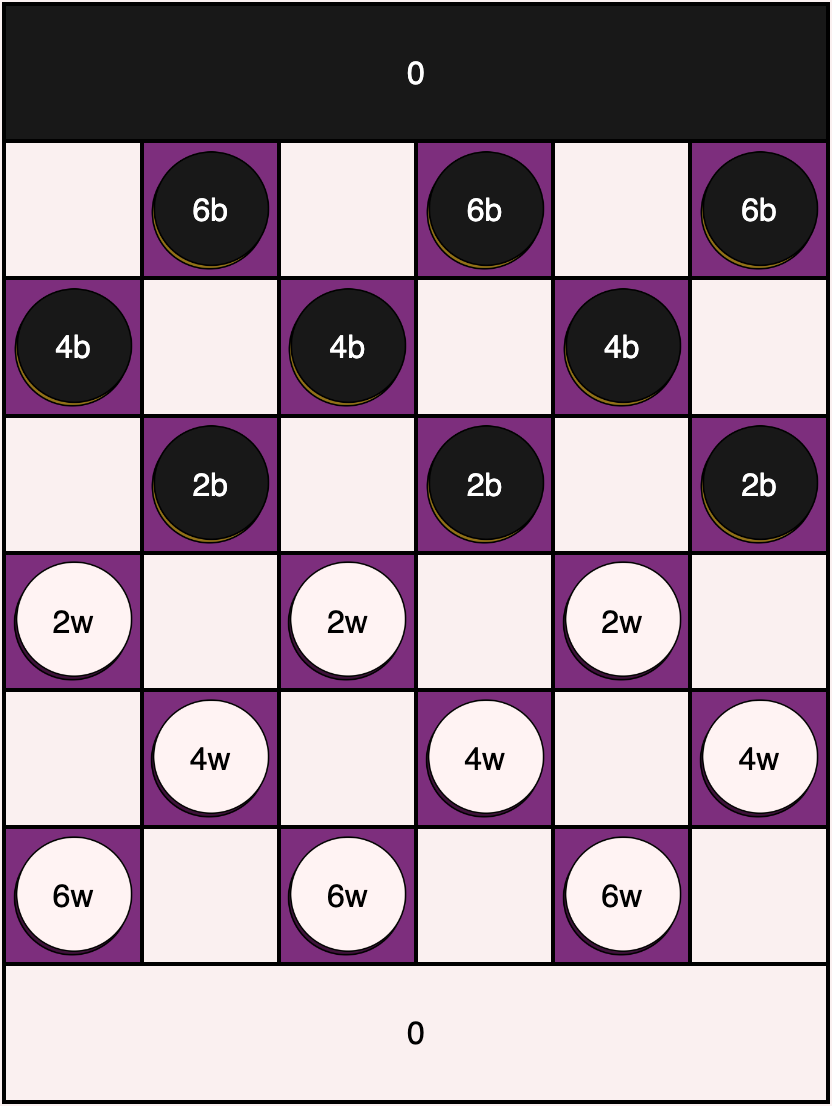
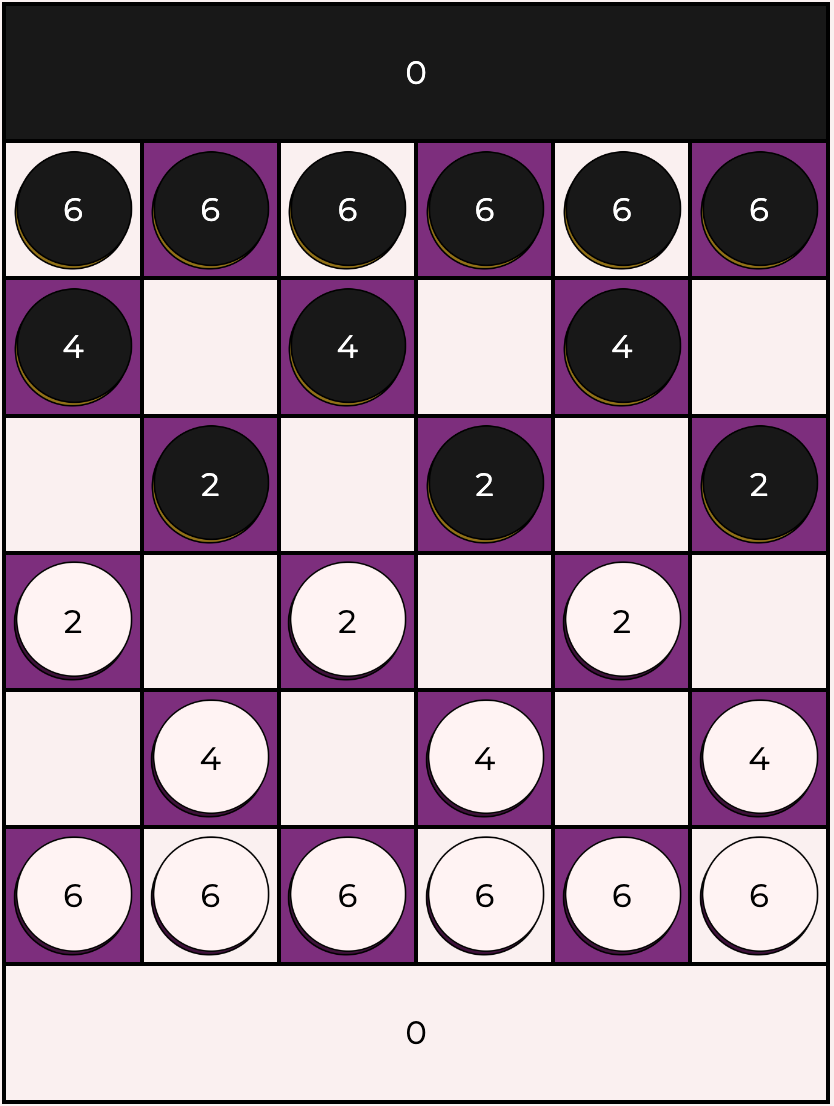
updated instructions - v2

diff --git a/frontend/src/Instructions.tsx b/frontend/src/Instructions.tsx
@@ -14,15 +14,14 @@ const Instructions = () => {
             feature requests, bugs, or general comments.</p>
         <h5>Overview</h5>
         <div className="image-formatter">
-        <p>Triarii is played on a 6x6 board, with two endzones. Each player has 36 pieces, initially arranged 
+        <p>Triarii is played on a 6x6 board, with two endzones. Each player has 54 pieces, initially arranged 
             in stacks of 6, 4, and 2, as shown on the right.
         </p>
         <img src={startingposition}/>
         </div>
         <h5>Ending the game</h5>
         <p>A player wins if they get 6 or more pieces in their opponent's endzone. A threefold 
-            repetition is a draw. There is one other special <a href="#fof">"Four or Fewer" condition</a> that 
-            can end the game, described below.
+            repetition is a draw.
         </p>
         <h5>Moves</h5>
         <p>On a player's turn, they can move a stack in one of two ways:</p>
@@ -35,23 +34,22 @@ const Instructions = () => {
         including the starting square.</li></ul></li></ol>
         <p>Once pieces are placed in the endzone, they can never be moved again. (It also follows that 
             pieces can only be placed in the endzone as the final move in an unstacking.)</p>
+        
         <h5>Pinning</h5>
-        <p>Pinning rules:</p>
-        <ul><li>A player can <b>pin</b> one of their opponent's stacks using a stack that is at least 
-        <b>double</b> the size of the pinned stack.</li>
+        <ul><li>A player can <b>pin</b> one of their opponent's stacks, depending on the size of both stacks:
+            <ul><li>A stack of size <b>1 - 4</b> can be pinned by a stack that is at least <b>double</b> in size.</li>
+            <li>A stack of size <b>5 - 8</b> can be pinned by a stack that is <b>8 or greater</b>.</li>
+            <li>A stack of size <b>9 - 12</b> can be pinned by a stack that is <b>4 or greater</b>.</li>
+            <li>A stack <b>greater than 12</b> can be pinned by a stack that is <b>1 or greater</b>.</li>
+        </ul>
+        </li>
         <li>Following the turn that a stack is pinned, only <b>one piece</b> is needed to keep it pinned.</li>
         <li>The pinned stack cannot be moved until:
             <ol><li>The other player vacates the square.</li>
             <li>The pinned player pins the pinning stack. The previously pinned pieces now join the rest of 
                 the pinning stack—they do not count toward the number needed to pin the opponent.</li></ol> 
         </li>
-        <li>A stack that is <b>greater than 8 pieces</b> can be pinned by a stack of <b>any size</b>. (Even just one piece!)</li>
         </ul>
-        <h5 id="fof">"Four or Fewer" condition</h5>
-        <p>At any given moment, both players must have at least one stack on the board that has four or fewer pieces,
-            which is directly reachable from the opponent's side. ("Directly" in this case means that it can be reached 
-            without going through another stack.) If at any moment a player violates this condition, their opponent <b>instantly wins</b>.
-        </p>
         <h5>Who were the Triarii?</h5>
         <p>The Triarii were one of the three main infantry types in the Roman Republic's military during 
         the mid-Republican period (4th to 3rd centuries BCE). They were the most experienced and seasoned 
